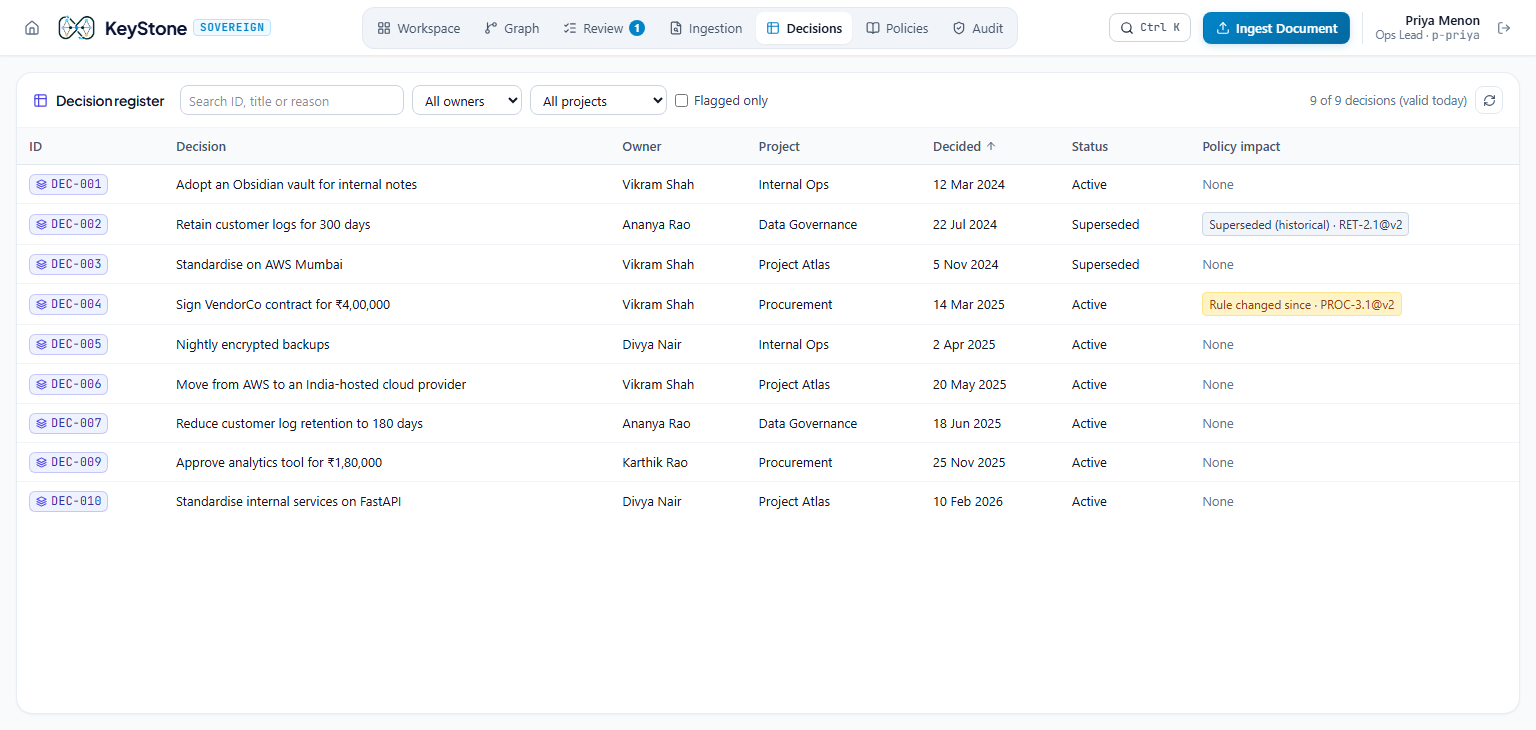
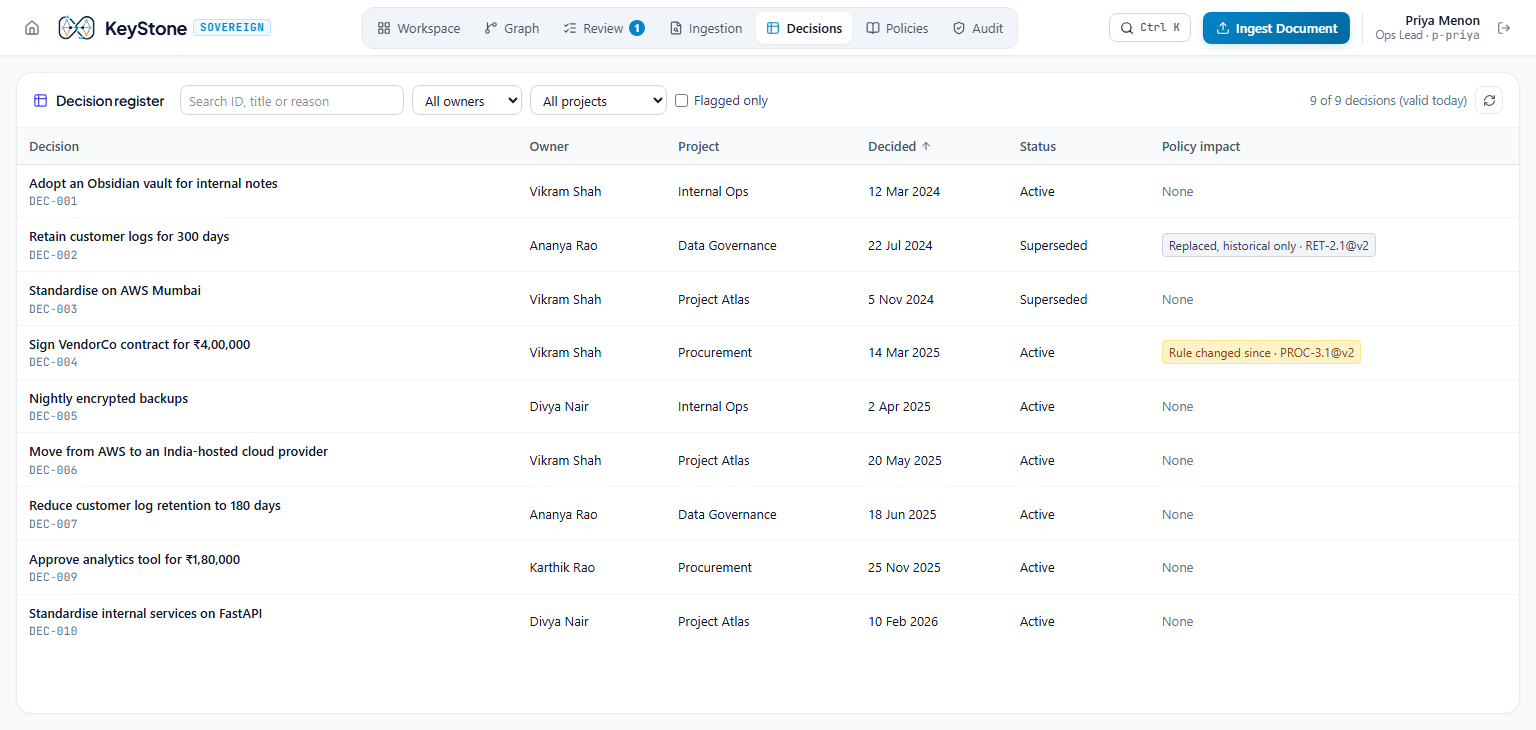
Docs: changelog for the usability pass, reference UI table, screenshots incl. 1024x700

diff --git a/docs/REFERENCE.md b/docs/REFERENCE.md
@@ -337,8 +337,8 @@ Autonomous action without human approval.
 | Landing page | Pitch, features, 5-stage pipeline, architecture matrix, live engine status |
 | Enter Workspace | Pre-authenticated role picker: Priya (Ops Lead), Karthik (CTO), Ananya (CEO), or Keystone Admin. Demo roles, not real auth |
 | Header | Home button, logo, engine status (≥1760 px wide; the console always shows it), seven view tabs (short labels below 1700 px) with pending badges for proposals and extracted facts, Ingest Document, current user (name, role, ID), sign out |
-| Timeline ribbon | Workspace and Graph only. As-of date picker, clause versions in force, policy-impact badge, a slider proportional to real dates with the policy milestones, Animate Timeline |
-| Unified Workspace | Console (left) + graph and a compact review-queue list (right), one viewport, panels scroll independently |
+| Timeline ribbon | Workspace and Graph only; collapses to one line (default on the Workspace). As-of date picker, clause versions in force, policy-impact badge, a slider proportional to real dates with the policy milestones, Animate Timeline |
+| Unified Workspace | Console and graph side by side (50/50), one viewport, panels scroll independently; after an answer the graph shows only the records that answer used ("Show full graph" returns to everything) |
 | Temporal Graph | Console (collapsible to a rail, same conversation) + graph from `/graph/view` laid out by date (x) and entity type (lanes); nodes fade or grey out as the as-of date moves; docked inspector with relied-on clause and its supersession, provenance, and compliance then vs now on request |
 | Console | Cited answers with the as-of date, source chips, "How I got this" (retrieved nodes, compliance then vs now); one refusal style; elapsed time while answering; model/telemetry/service status from `/health` |
 | Review Queue | List + detail: what approving does in plain words, involved records, full scanner reasoning, the proposal as stored, its audit rows; Approve (then polls until the executor wrote the `.eml`), inline Edit, Reject with a required reason |
@@ -349,7 +349,7 @@ Autonomous action without human approval.
 | Ingest Document | Presets that know whether they are already ingested, custom Markdown or meeting audio, observable progress with Cancel, specific errors, per-stage results, jump to Review Queue or Ingestion Review |
 | Everywhere | Ctrl/Cmd+K search; every ID chip opens its record; one colour and icon per entity type |
 
-Target: 1920×1080 at 125% scaling (1536×~730 CSS px), also checked at 1366×768 and 1920×1080. No page-level
+Target: 1920×1080 at 125% scaling (1536×~730 CSS px), also checked at 1366×768, 1920×1080 and 1024×700. No page-level
 scrolling on app screens. Screenshots: `docs/screenshots/`. Logo swap: replace `public/keystone-mark.png` (also
 the favicon).
 

diff --git a/CHANGELOG.md b/CHANGELOG.md
@@ -1,5 +1,29 @@
 # Changelog
 
+## Usability pass (30 Sept 2026)
+
+- **Titles before IDs.** Records show their title first, with the ID smaller: Review Queue list and detail,
+  the Decisions register, involved-record chips, "How I got this", and scanner results. Every ID chip's
+  tooltip names the record. Impact codes read as plain words everywhere: "Still breaching the new rule",
+  "Rule changed since", "Replaced, historical only". The code stays in the tooltip.
+- **Answer-first graph.** After an answer, the graph shows only the records that answer used, laid out
+  across the date range those records span. A banner names the question. "Show full graph" returns to
+  everything. A refusal or a new conversation clears it.
+- **Simpler Workspace.** Console and graph split 50/50. The embedded review list is gone (the header badge
+  counts proposals). The timeline collapses to one line on the Workspace by default and stays open on the
+  Graph tab; the choice is remembered per view. The inspector opens when you ask to inspect something, not
+  on every answer.
+- **One date format:** `30 Sep 2026`. This applies to the as-of picker, audit filters, the graph's as-of
+  tag, the console header, and ISO dates inside model-worded text. Dates inside IDs such as
+  `MTG-2025-05-14` are left alone. "Back to today" appears when the timeline is elsewhere.
+- **Polish.**
+  - Rejected proposals show ✕.
+  - Ingestion history lists the newest document first.
+  - Graph labels avoid other labels and nodes, highest priority first.
+  - The graph's colour key sits in the toolbar.
+  - The layout works down to 1024 px: tabs become icons with tooltips, and side panels narrow.
+- `record-demo.mjs` presses "Show full graph" before the time-travel scene.
+
 ## Frontend rework, branch `frontend-rework` (29–30 Sept 2026)
 
 This pass changed the frontend only: `src/`, frontend tests, `scripts/record-demo.mjs` selectors, and docs.
